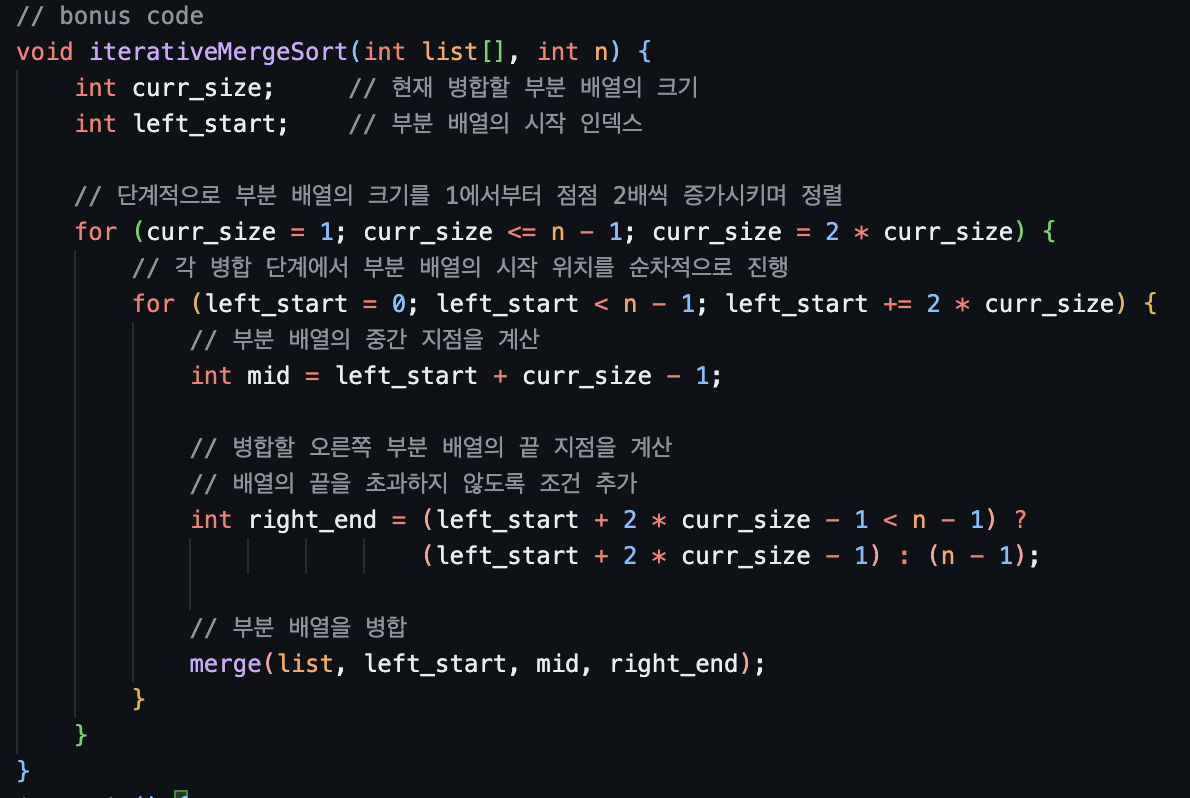
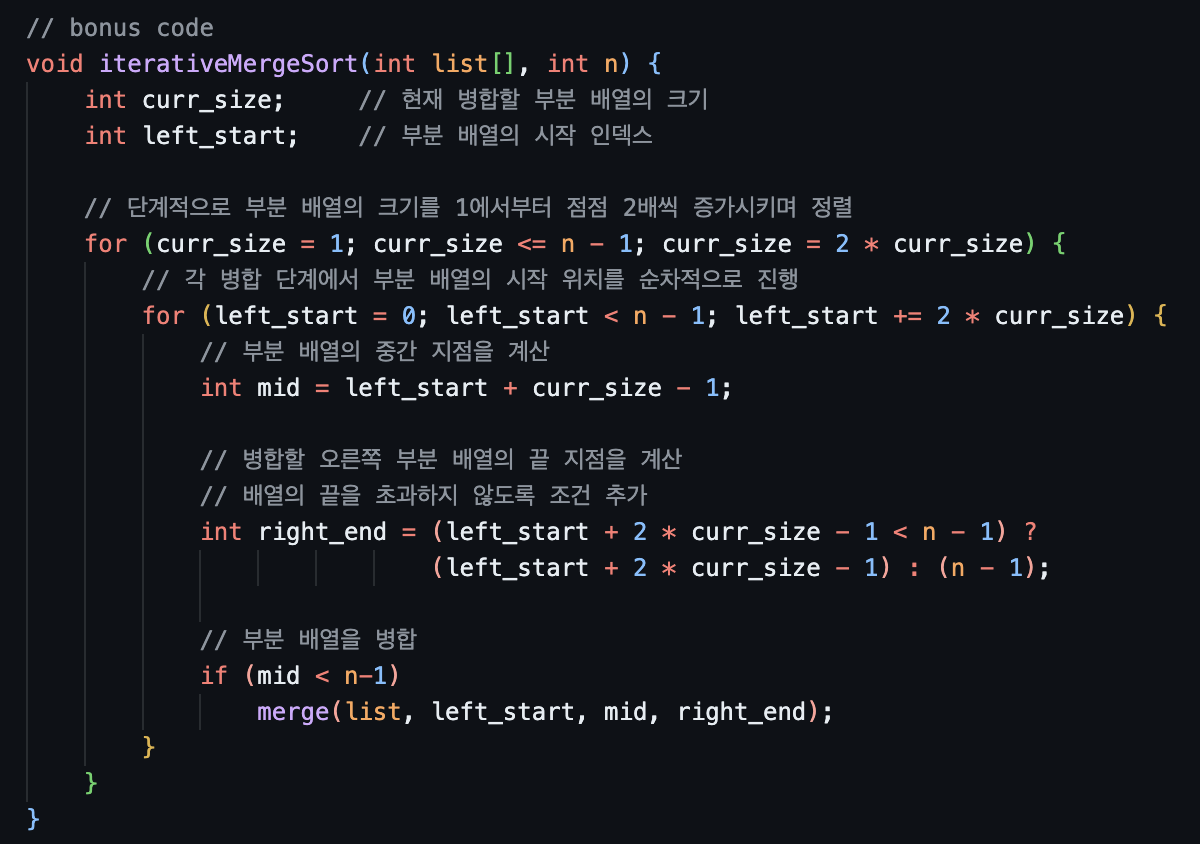
.

diff --git a/13-mergesort/13-mergesort.c b/13-mergesort/13-mergesort.c
@@ -94,7 +94,8 @@ void iterativeMergeSort(int list[], int n) {
                             (left_start + 2 * curr_size - 1) : (n - 1);
 
             // 부분 배열을 병합
-            merge(list, left_start, mid, right_end);
+            if (mid < n-1)
+                merge(list, left_start, mid, right_end);
         }
     }
 }
